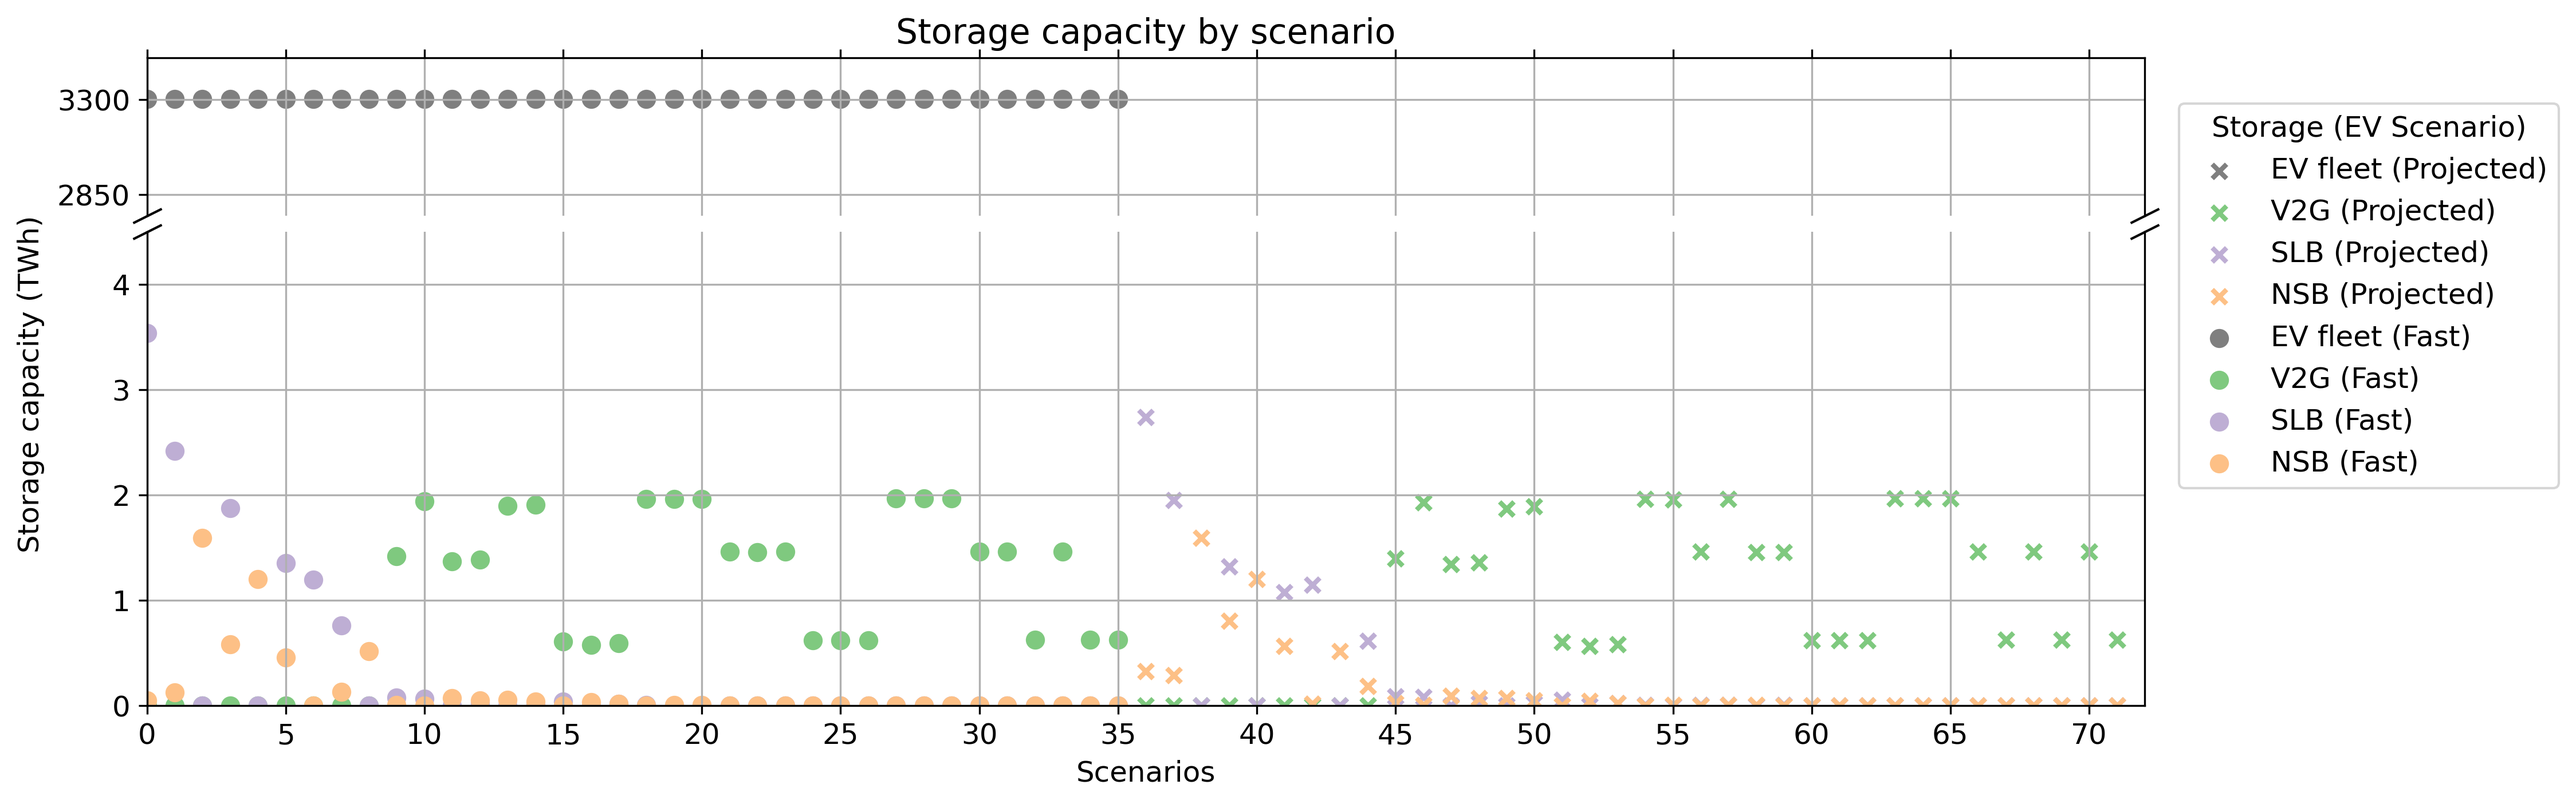
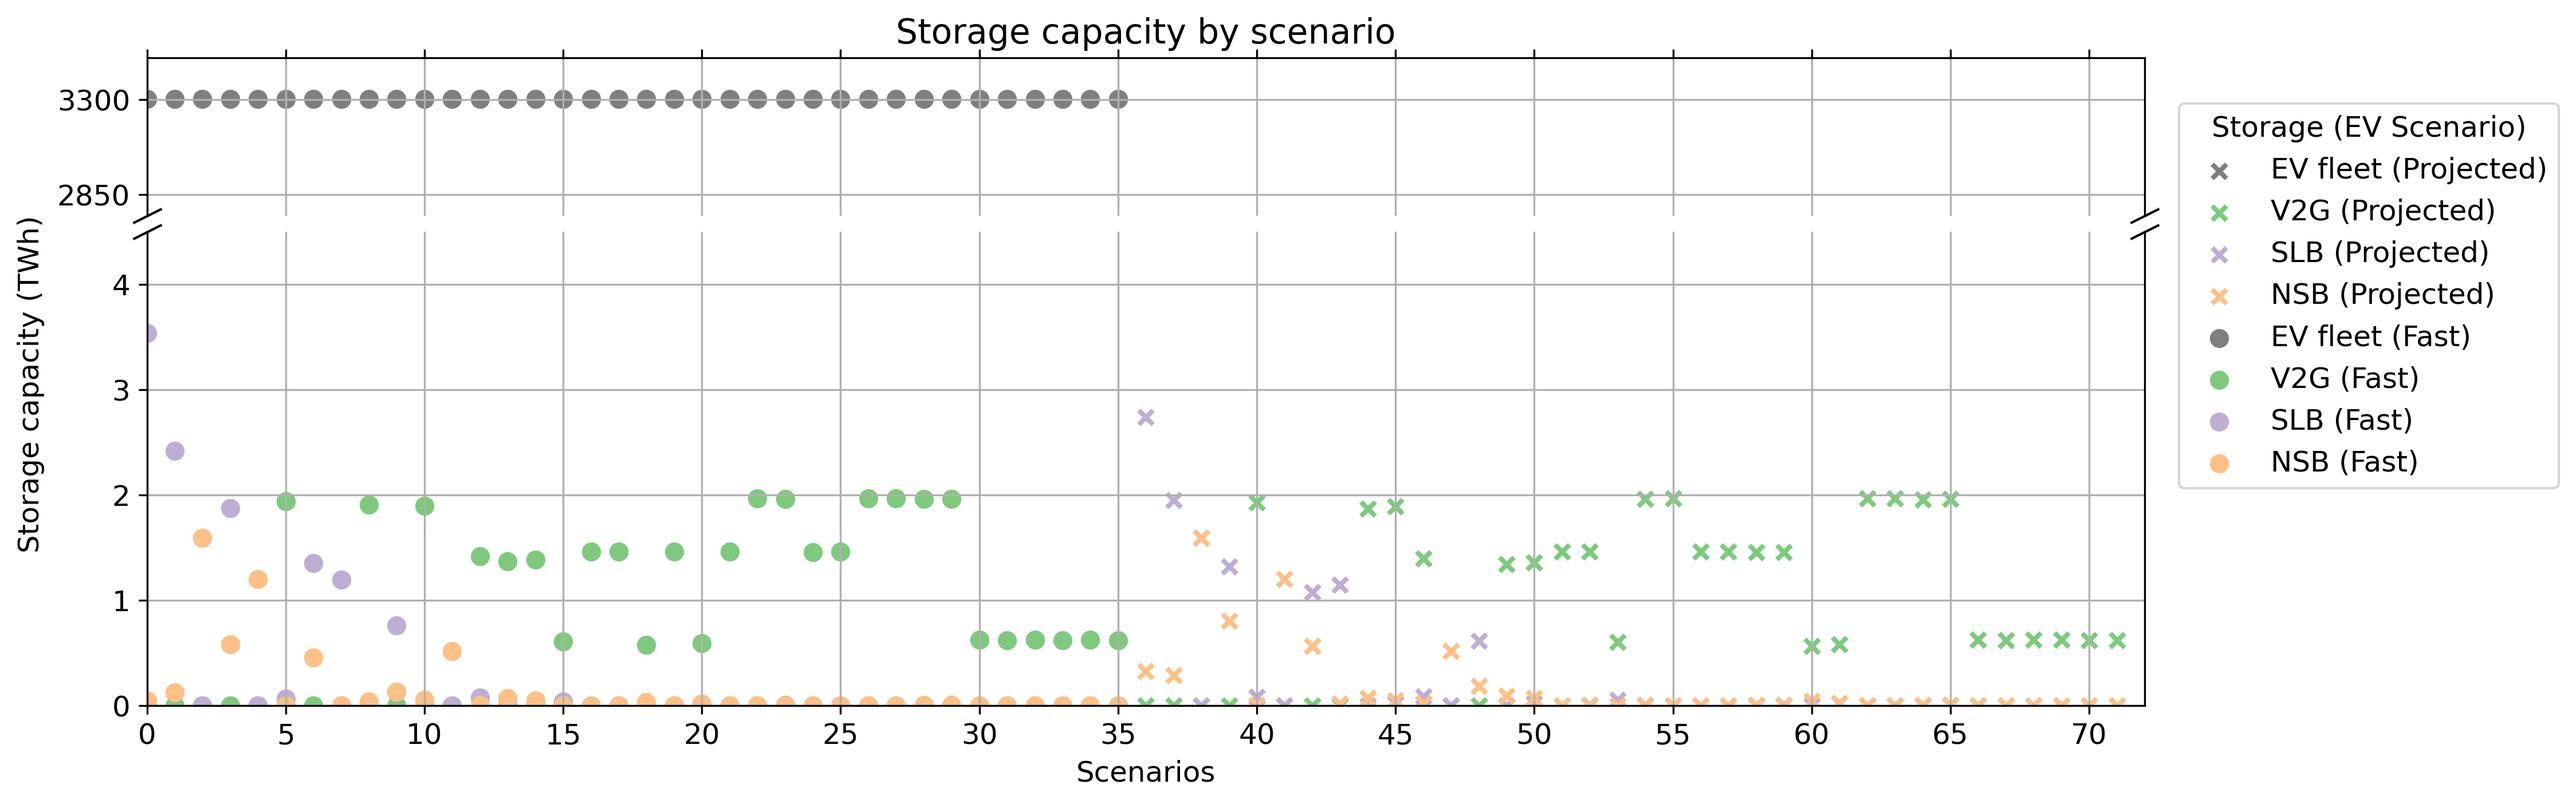
Fixed V2G capacity bug

diff --git a/Model_constrained.py b/Model_constrained.py
@@ -561,8 +561,8 @@ inflows = np.einsum('zSaRvEgsbtc->zSaRvEgsbt',MaTrace_System.FlowDict['B_4_5'].V
 # Calculate the capacity that is available according to this under the assumption that 80% of the initial capacity is still available
 SLB_available = np.einsum('zSaRvEgsbt, gst->zSaRvEgsbt',inflows, MaTrace_System.ParameterDict['Capacity'].Values[:,:,:]) * 0.8 
 # Calculate the maximum amount of vehicles that can be equipped with V2G. We assume that the plug-ratio is 50% and park ratio is also 50%. Therefore we use factor 0.25
-MaTrace_System.FlowDict['C_2_3_max'].Values[:,:,:,:,:,:,:,:]         = np.einsum('vgt, zSagsbt->zSavgsbt',MaTrace_System.ParameterDict['V2G_rate'].Values[:,:,:], \
-                np.einsum('zSagsbt, gsc->zSagsbt', MaTrace_System.FlowDict['B_2_3'].Values[:,:,:,:,:,:,:], MaTrace_System.ParameterDict['Capacity'].Values[:,:,:])) *0.25
+MaTrace_System.FlowDict['C_2_3_max'].Values[:,:,:,:,:,:,:,:]         = np.einsum('vgc, zSagsbc->zSavgsbc',MaTrace_System.ParameterDict['V2G_rate'].Values[:,:,:], \
+                np.einsum('zSagsbc, gsc->zSagsbc', MaTrace_System.FlowDict['B_2_3'].Values[:,:,:,:,:,:,:], MaTrace_System.ParameterDict['Capacity'].Values[:,:,:])) *0.25
 # Calculate total capacity needed for vehicle fleet
 ev_fleet_capacity = np.einsum('zSagsbt, gsc->zSat', MaTrace_System.FlowDict['B_2_3'].Values[:,:,:,:,:,:,:], MaTrace_System.ParameterDict['Capacity'].Values[:,:,:])
 '''
@@ -1342,7 +1342,7 @@ def plot_energy_resource_multi():
     a = 4 # NCX, LFP, Next_Gen, Roskill
     R = 0 # LFP reused, no reuse, all reuse
     v = 0 # No V2G, Low,  medium, high, v2g mandate,  early
-    e =1 # Low, medium, high, CP4All
+    e =2 # Low, medium, high, CP4All
     fig, ax = plt.subplots(4,3,figsize=(13,16), sharex=True)
     ax[0,0].set_prop_cycle(custom_cycler)
     ax[0,0].stackplot(MaTrace_System.IndexTable['Classification']['Time'].Items[55::], 
@@ -1381,7 +1381,7 @@ def plot_energy_resource_multi():
     ax[1,0].set_ylim(0,3)
     ax[1,0].grid()
 
-    v = 1 # Low, medium, high, v2g mandate, no v2g, early
+    v = 3 # Low, medium, high, v2g mandate, no v2g, early
     ax[0,1].set_prop_cycle(custom_cycler)
     ax[0,1].stackplot(MaTrace_System.IndexTable['Classification']['Time'].Items[55::], 
                 [MaTrace_System.StockDict['C_3'].Values[z,s,a,R,v,e,55::], \
@@ -1504,7 +1504,7 @@ def plot_energy_resource_multi():
     s = 1 # Low, medium, high
     a = 4 # NCX, LFP, Next_Gen, Roskill
     R = 0 # LFP reused, no reuse, all reuse
-    v = 2 # Low, medium, high, v2g mandate, no v2g, early
+    v = 3 # Low, medium, high, v2g mandate, no v2g, early
     e = 2 # Low, medium, high, CP4All
     ax[2,1].set_prop_cycle(custom_cycler)
     ax[2,1].stackplot(MaTrace_System.IndexTable['Classification']['Time'].Items[55::], 
